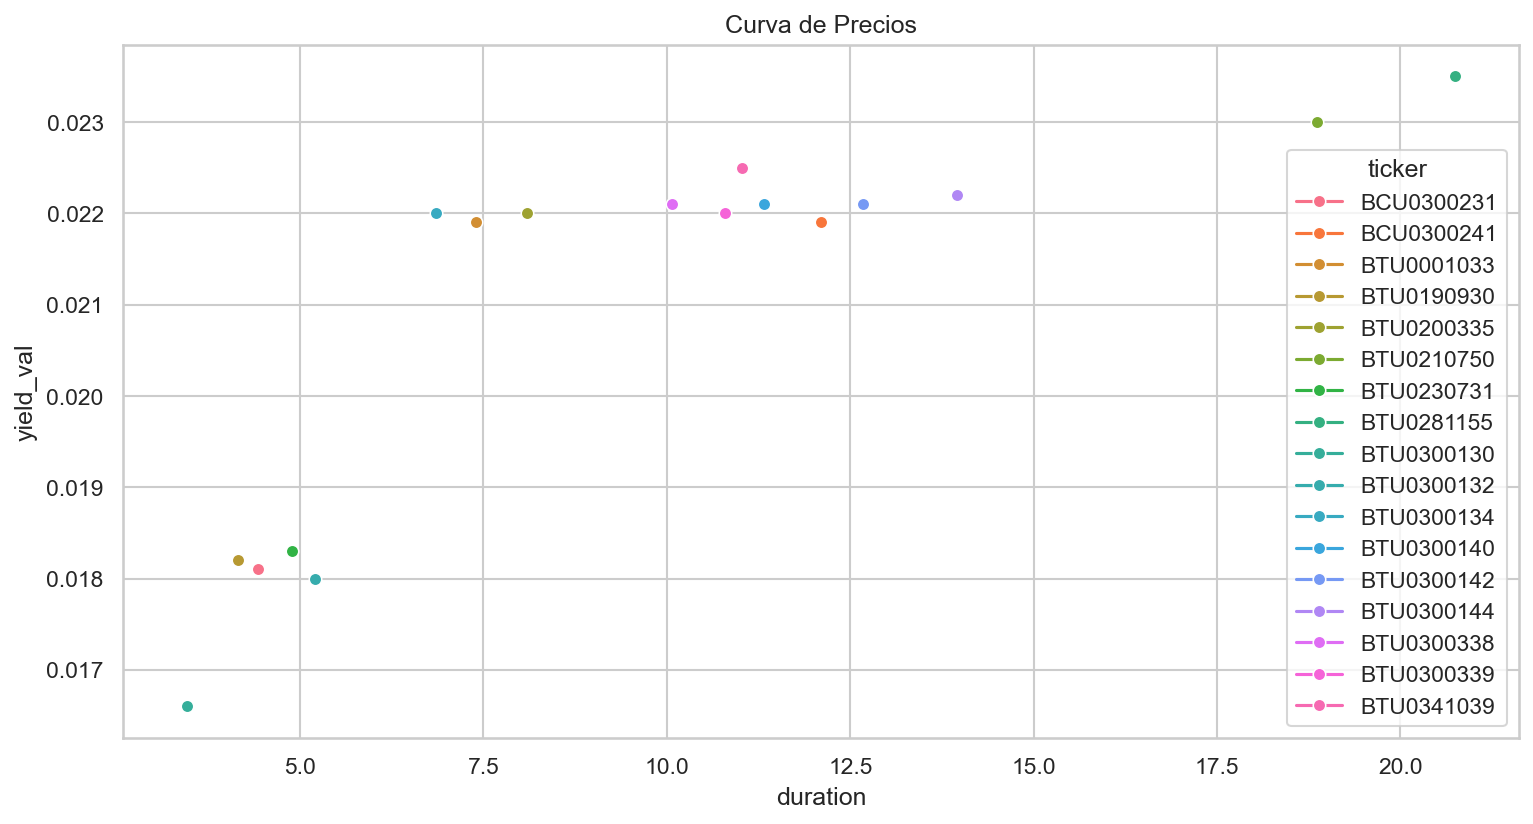
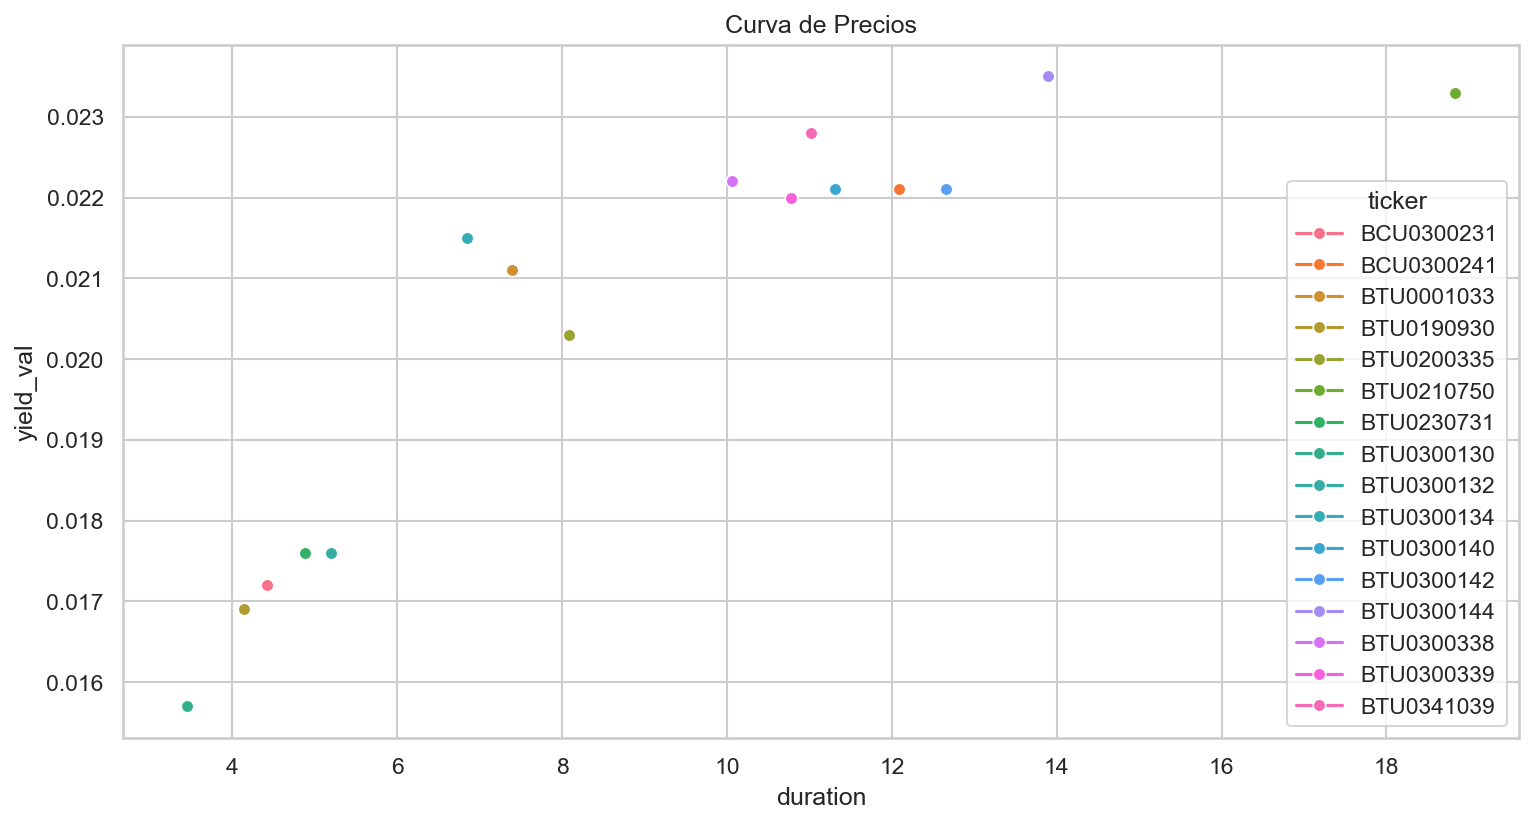
feat: corregir errores

diff --git a/scripts/watch_data.py b/scripts/watch_data.py
@@ -1,0 +1,112 @@
+import os
+import sys
+import time
+import shutil
+import subprocess
+from watchdog.events import FileSystemEventHandler
+from watchdog.observers import Observer
+
+
+class DataFolderEventHandler(FileSystemEventHandler):
+    """Handle file system events for the data folder."""
+
+    def __init__(self, data_dir):
+        super().__init__()
+        self.data_dir = data_dir
+        self.processed_dir = os.path.join(os.path.dirname(data_dir), 'processed_data')
+        os.makedirs(self.processed_dir, exist_ok=True)
+
+    def on_created(self, event): # maneja archivos nuevos creados en la carpeta data
+        if event.is_directory:
+            return
+
+        file_path = os.path.abspath(event.src_path)
+        relative_path = os.path.relpath(file_path, self.data_dir)
+        print(f"Nuevo archivo agregado a data: {relative_path}")
+
+        if file_path.lower().endswith('.xlsx'):
+            print("Se detectó un archivo Excel. Ejecutando crear_db.py para actualizar la base de datos...")
+            self._process_file(file_path)
+
+    def on_moved(self, event):  # maneja archivos movidos a la carpeta data, lo que es útil si se mueven archivos desde otra ubicación en lugar de copiarlos directamente
+        if event.is_directory:
+            return
+
+        dest_path = os.path.abspath(event.dest_path)
+        if os.path.commonpath([dest_path, self.data_dir]) == self.data_dir:
+            relative_path = os.path.relpath(dest_path, self.data_dir)
+            print(f"Archivo movido a data: {relative_path}")
+
+            if dest_path.lower().endswith('.xlsx'):
+                print("Se detectó un archivo Excel movido a data. Ejecutando crear_db.py para actualizar la base de datos...")
+                self._process_file(dest_path)
+
+    def _process_file(self, file_path): # procesa el archivo
+        if self._run_crear_db():
+            self._move_file_to_processed(file_path)
+
+    def _run_crear_db(self): #ejecuta crear_db.py para actualizar la base de datos
+        base_dir = os.path.dirname(os.path.dirname(os.path.abspath(__file__)))
+        crear_db_path = os.path.join(base_dir, 'scripts', 'crear_db.py')
+
+        try:
+            subprocess.run([sys.executable, crear_db_path], check=True)
+            print("crear_db.py se ejecutó correctamente.")
+            return True
+        except subprocess.CalledProcessError as error:
+            print(f"Error al ejecutar crear_db.py: {error}")
+            return False
+
+    def _move_file_to_processed(self, file_path): # mueve el archivo a processed_data después de procesarlo
+        filename = os.path.basename(file_path)
+        destination = os.path.join(self.processed_dir, filename)
+        destination = self._unique_destination(destination)
+
+        try:
+            shutil.move(file_path, destination)
+            relative_dest = os.path.relpath(destination, self.processed_dir)
+            print(f"Archivo movido a carpeta de procesados: {relative_dest}")
+        except OSError as error:
+            print(f"Error al mover el archivo a procesados: {error}")
+
+    def _unique_destination(self, destination): # evita que se sobrescriban archivos en processed_data
+        if not os.path.exists(destination):
+            return destination
+
+        base, ext = os.path.splitext(destination)
+        counter = 1
+        while True:
+            candidate = f"{base}_{counter}{ext}"
+            if not os.path.exists(candidate):
+                return candidate
+            counter += 1
+
+
+def main():# función principal para iniciar el watcher
+    script_dir = os.path.dirname(os.path.abspath(__file__))
+    base_dir = os.path.dirname(script_dir)
+    data_dir = os.path.join(base_dir, 'data')
+
+    if not os.path.isdir(data_dir):
+        raise FileNotFoundError(f"No se encontró la carpeta de datos: {data_dir}")
+
+    event_handler = DataFolderEventHandler(data_dir)
+    observer = Observer()
+    observer.schedule(event_handler, path=data_dir, recursive=False)
+    observer.start()
+
+    print(f"Observando la carpeta: {data_dir}")
+    print("Presiona Ctrl+C para detener.")
+
+    try:
+        while True:
+            time.sleep(1)
+    except KeyboardInterrupt:
+        observer.stop()
+        print("Deteniendo el watcher...")
+
+    observer.join()
+
+
+if __name__ == '__main__':# ejecuta la función principal para iniciar el watcher
+    main()

diff --git a/scripts/parse_data.py b/scripts/parse_data.py
@@ -26,9 +26,6 @@ def connect_db(query, db_path):
          
 
 
-
-
-
 #ejemplo consulta SQL para obtener datos de rendimiento y duración
 '''SELECT *, MAX(date)
 FROM fixed_income 
@@ -64,7 +61,7 @@ WHERE ticker IN ('BCHICA1015', 'BSTD150216','BCHICM1215');
 query = """
 SELECT*
 FROM fixed_income 
-WHERE ticker IN ('BCHICA1015', 'BSTD150216','BCHICM1215');
+WHERE ticker IN ('BENJO-AA', 'BENJO-I','BENJO-J','BENJO-K','BENJO-L','BENJO-M','BENJO-N','BENJO-O','BENJO-P','BENJO-Q');
 """
 
 
@@ -89,6 +86,6 @@ print(df_simulacion)
 # Llamar a la función curva con los datos procesados
 plot_curve.curva(df)
 
-plot_curve.boxplot(df, output_dir='output')
+plot_curve.boxplot(df, output_dir='outputs')
 
-plot_curve.grafico_circular(df, output_dir='output')
+plot_curve.grafico_circular(df, output_dir='outputs')

diff --git a/scripts/crear_db.py b/scripts/crear_db.py
@@ -4,6 +4,7 @@ import os
 import re
 import glob
 
+
 # Function to extract date from filename
 def extract_date(filename):
     match = re.search(r'Chile_PriceVector_(\d{4}-\d{2}-\d{2})\.xlsx', filename)